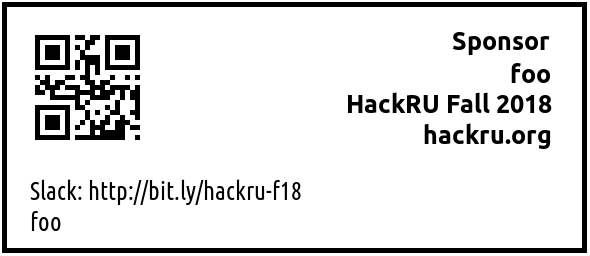
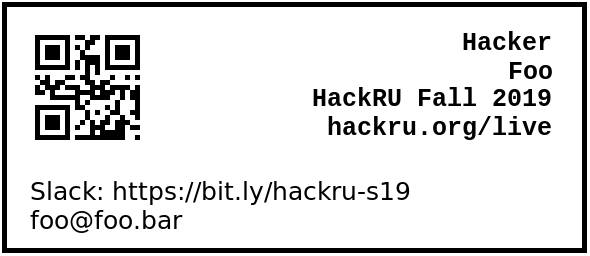
heman fixeds shit for

Changed region(s): [[0.5186, 0.125, 0.9458, 0.5938], [0.0305, 0.6875, 0.7017, 0.9062]]

diff --git a/qr_script.py b/qr_script.py
@@ -12,8 +12,8 @@ from flask import Flask, render_template, request, redirect, jsonify
 
 app = Flask(__name__)
 
-SAMPLE_CODE_BASE_PATH = '/home/architect/dymo-cups-drivers/samples/test_label/'
-PRINTER_CMD = SAMPLE_CODE_BASE_PATH + 'TestLabel'
+SAMPLE_CODE_BASE_PATH = '/home/maek/prog/dymo-cups-drivers/samples/test_label/'
+PRINTER_CMD = SAMPLE_CODE_BASE_PATH + 'a.out'
 
 QR_PHOTO_PATH = '/tmp/qr-{}.png'
 LABEL_PHOTO_PATH = '/tmp/label-{}.png'
@@ -40,6 +40,7 @@ def run_printer(p_exec, email, qr_path):
     return pr.returncode
 
 @app.route('/print', methods=['POST'])
+@app.route('/print/', methods=['POST'])
 def web_req():
     data = request.json
     if 'email' not in data:
@@ -49,8 +50,8 @@ def web_req():
         # need an auth token to get names, XD
         q = {
             'query': {'email': data['email']},
-            'email': 'c@c.com',
-            'token': '791277e1-7b8b-4873-95ac-d283c3bacd84'
+            'email': 'kabirkuriyan@gmail.com',
+            'token': '168008c6-c109-4da3-9c35-28b82e1c326d'
         }
         r = req.post(LCS_URL, json=q)
         rj = r.json()

diff --git a/samples/test_label/TestLabel.cpp b/samples/test_label/TestLabel.cpp
@@ -9,8 +9,8 @@
 
 using namespace std;
 
-char* PNGFileName = "/home/architect/dymo-cups-drivers/samples/test_label/label.png";
-char* QRFileName = "/home/architect/dymo-cups-drivers/samples/test_label/tel.png";
+char* PNGFileName = "/home/maek/prog/dymo-cups-drivers/samples/test_label/label.png";
+char* QRFileName = "/home/maek/prog/dymo-cups-drivers/samples/test_label/tel.png";
 
 class Error: public exception
 {
@@ -99,8 +99,8 @@ CreateLabelImage(int Width, int Height, char * name, char * email, char * role)
   const char* lines[4] = {
     role,
     name,
-    "HackRU Fall 2018",
-    "hackru.org" };
+    "HackRU Fall 2019",
+    "hackru.org/live" };
 
   cairo_text_extents_t te;
   double x = 50;
@@ -141,7 +141,7 @@ CreateLabelImage(int Width, int Height, char * name, char * email, char * role)
   cairo_set_source_rgb(c, 0, 0, 0);
   cairo_set_line_width(c, 1);
   const char* lines2[2] = {
-    "Slack: http://bit.ly/hackru-f18",
+    "Slack: https://bit.ly/hackru-s19",
     email };
 
   x = 30;
